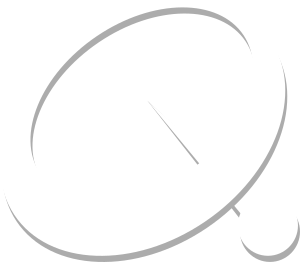
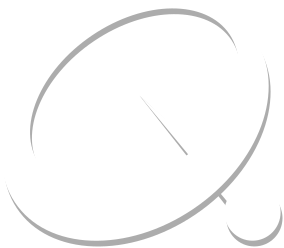
AboutPage animate background

diff --git a/sailfish/qml/AboutPage.qml b/sailfish/qml/AboutPage.qml
@@ -25,15 +25,45 @@ AbstractPage {
     title: qsTr("About")
 
     Image {
-        anchors.horizontalCenter: parent.horizontalCenter
-        anchors.verticalCenter: parent.verticalCenter
+        id: backgroundImage
         width: aboutPage.width * 0.8
         height: aboutPage.height * 0.8
 
         fillMode: Image.PreserveAspectFit
         source: "./cover/background.png"
-        opacity: 0.1
+        visible: false
         smooth: true
+    }
+
+    ShaderEffect {
+        anchors.horizontalCenter: parent.horizontalCenter
+        anchors.top: aboutPage.top
+        anchors.topMargin: (aboutPage.height/2 - height/2) - flickable.contentY/3
+
+        width: backgroundImage.paintedWidth; height: backgroundImage.paintedHeight
+        property variant source: backgroundImage
+        property real frequency: 5
+        property real amplitude: 0.02
+        property real time: 0.0
+        property real myopacity: 0.15
+
+        NumberAnimation on time {
+            from: 0; to: Math.PI*2; duration: 3000; loops: Animation.Infinite
+        }
+
+        fragmentShader: "
+            varying highp vec2 qt_TexCoord0;
+            uniform sampler2D source;
+            uniform lowp float qt_Opacity;
+            uniform highp float frequency;
+            uniform highp float amplitude;
+            uniform highp float time;
+            uniform lowp float myopacity;
+            void main() {
+                highp vec2 pulse = sin(time - frequency * qt_TexCoord0);
+                highp vec2 coord = vec2(-amplitude, -amplitude) + qt_TexCoord0 * (1.0 + 2.0 * amplitude) + amplitude * vec2(pulse.x, -pulse.x);
+                gl_FragColor = texture2D(source, coord) * myopacity;
+            }"
     }
 
     Flickable {
